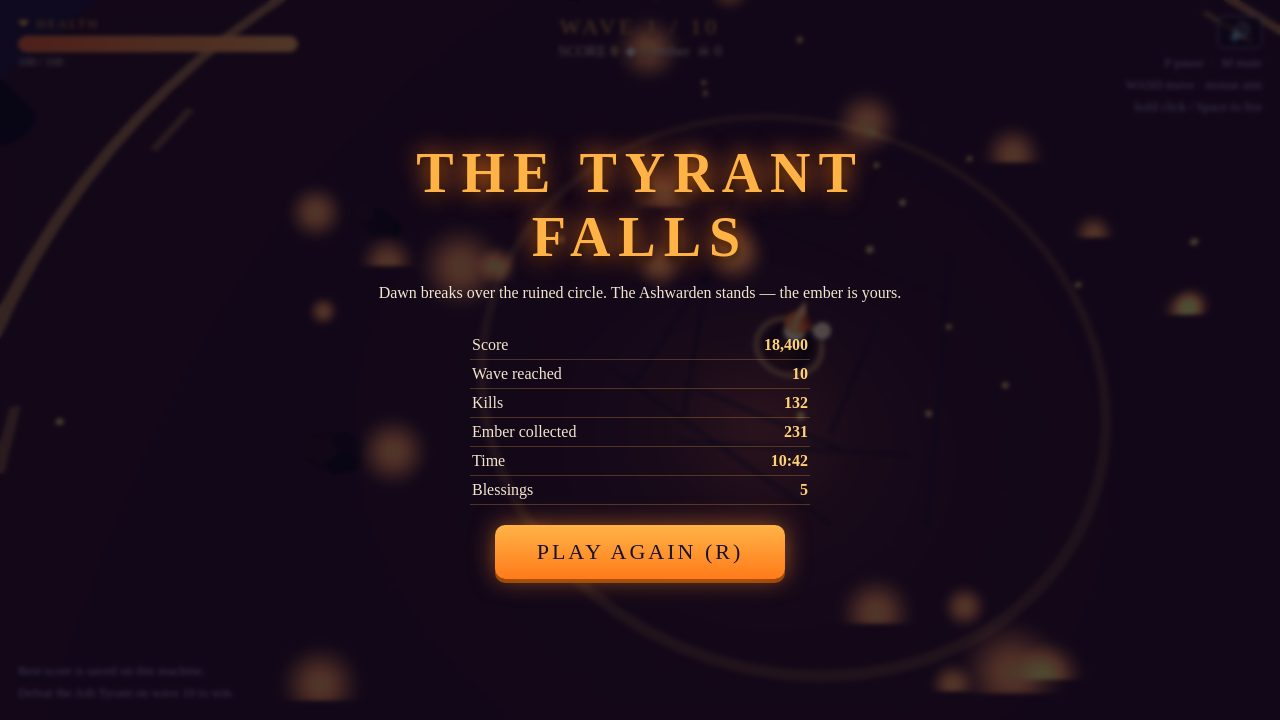
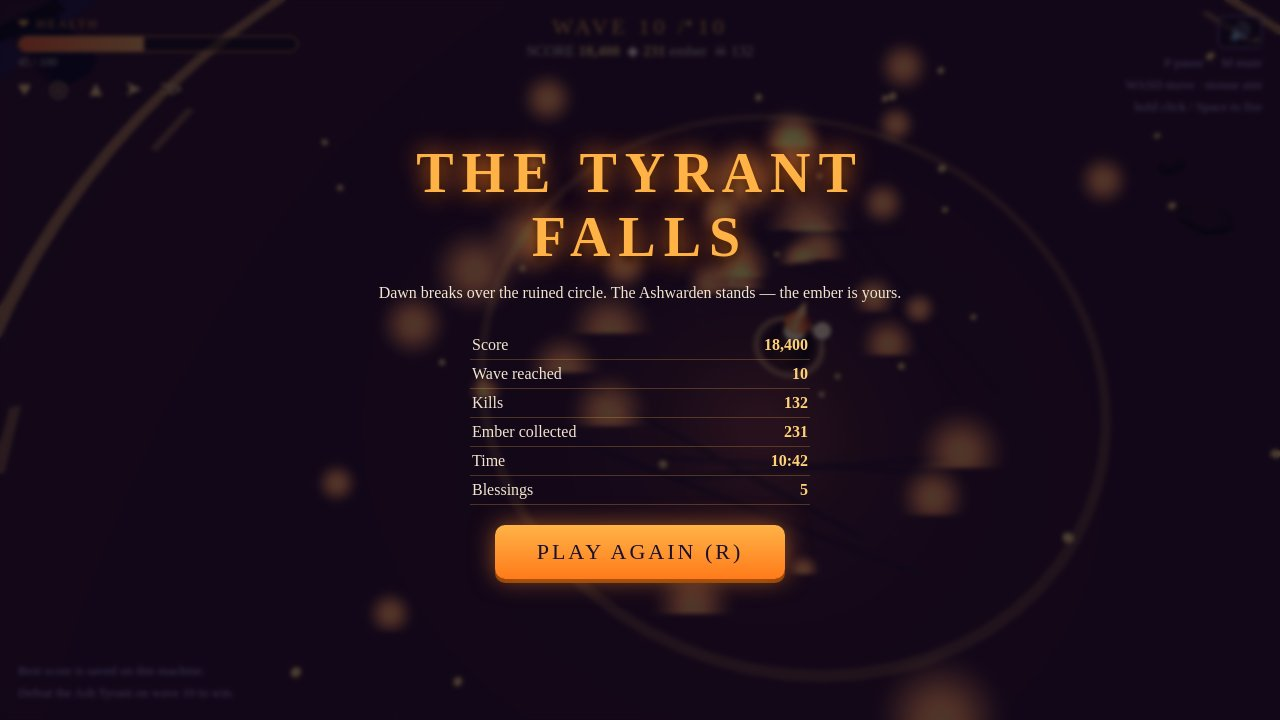
QA: refresh top HUD on victory/game-over screens; retake victory shot
hud.update() only runs during play/blessing/pause, so the bar behind the
end-screen overlay showed stale values (staged victory shot read WAVE 1 /
SCORE 0 behind the panel). victory() and gameOver() now call refreshHud()
first; in live play the bar is already current, so this is a no-op there.
Retook 4-victory.jpg: top bar now reads WAVE 10 / 10, SCORE 18,400.

diff --git a/game/src/main.js b/game/src/main.js
@@ -185,10 +185,23 @@ export class Game {
     this._pendingWaveT = 1.0;
   }
 
+  // Keep the top HUD bar in sync on end screens too: hud.update() only runs
+  // during play/blessing/pause, so without this the bar behind the victory /
+  // game-over overlay shows stale values (e.g. WAVE 1 / SCORE 0 on a staged
+  // victory shot). In live play it is already current; this is a no-op there.
+  refreshHud() {
+    this.hud.update({
+      hp: this.player.hp, maxHp: this.player.maxHp, shield: this.player.shield,
+      wave: Math.max(1, this.run.wave), score: this.run.score, ember: this.run.ember,
+      kills: this.run.kills, blessings: this.run.blessingsTaken,
+    });
+  }
+
   gameOver() {
     this.run.state = 'gameover';
     const isBest = this.run.finish();
     this.audio.gameover();
+    this.refreshHud();
     this.hud.gameOver(this.run.stats());
     this.hud.setBest(this.run.best);
     this.hud.showScreen('gameover');
@@ -200,6 +213,7 @@ export class Game {
     this.run.state = 'victory';
     const isBest = this.run.finish();
     this.audio.victory();
+    this.refreshHud();
     this.hud.victory(this.run.stats());
     this.hud.setBest(this.run.best);
     this.hud.showScreen('victory');
